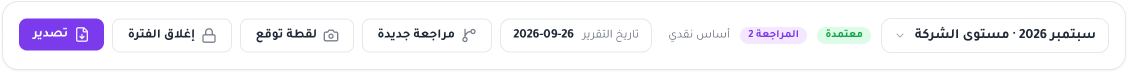
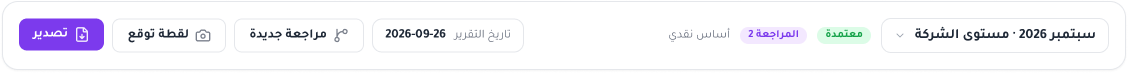
test(finance): approver identity comes from the session; review package docs
- tests/finance/http/approver-identity.test.mjs: a user holding both preparing and
  approving duties cannot approve their own request by claiming another approver in the
  body, query string or identity-style headers (403), forged cookies are 401, and the
  recorded decider is always the session's employee. Fixture user fin.dual.
- VERIFICATION.md: the identity boundary in three tiers (ordinary users; the backend and its
  database credential; privileged database administrators).
- ENVIRONMENT.md: production identification restated as indirect evidence; the health-check
  observation is corroborating only; the deployed connection string was not read.
- DECISIONS.md: effect, recommendation and what each decision changes; D4b closed by
  correcting the frame to the permission policy; D7 closed by the ERP convention.
- MIGRATION_REHEARSAL.md: proposed isolated rehearsal procedure (not executed).

Changed region(s): [[0.0931, 0.3562, 0.5895, 0.6027]]

diff --git a/scripts/finance/seed-local-fixture.ts b/scripts/finance/seed-local-fixture.ts
@@ -75,6 +75,9 @@ async function main() {
   await user("fin.viewer", "مراجع — عرض فقط", perms([]));
   await user("fin.manager.en", "Sara Alotaibi — Finance", perms(["txn_enter", "reconcile", "budget_prepare", "allocate", "all_branches", "settings_manage"]), "en");
   await user("no.finance", "موظف بلا صلاحية مالية", { ...buildDefaultPermissions("custom"), dashboard: { access: "edit" } });
+  // Holds BOTH preparing and approving duties (a small team): only the four-eyes rule stops
+  // them approving their own request (tests/finance/http/approver-identity.test.mjs).
+  await user("fin.dual", "مدير مالي — إعداد واعتماد", perms(["budget_prepare", "budget_approve", "all_branches"]));
   // First-grant scenario (tests/finance/http/admin-grant.test.mjs): an administrator whose
   // stored permissions were written before the Finance module existed, and two staff members
   // who have no finance access yet.
@@ -265,7 +268,7 @@ async function main() {
   await submitBudget(prep, ps, oct.id, {});
   await requestCategoryTransfer(prep, ps, { fromCategoryId: al["AL-RESERVE"].id, toCategoryId: al["AL-GREEN"].id, amount: "5000", reason: "تعزيز البن الأخضر لشحنة كولومبيا" });
 
-  console.log("Local finance fixture created. Logins: fin.manager, fin.approver, fin.cafe, fin.viewer, fin.manager.en, no.finance, legacy.admin, new.preparer, new.approver (password from FIN_FIXTURE_PASSWORD).");
+  console.log("Local finance fixture created. Logins: fin.manager, fin.approver, fin.cafe, fin.viewer, fin.manager.en, no.finance, legacy.admin, new.preparer, new.approver, fin.dual (password from FIN_FIXTURE_PASSWORD).");
 }
 
 main().then(async () => { await prisma.$disconnect(); process.exit(0); }).catch(async (e) => { console.error(e); await prisma.$disconnect(); process.exit(1); });

diff --git a/docs/finance/DECISIONS.md b/docs/finance/DECISIONS.md
@@ -1,27 +1,28 @@
-# Finance — visual decisions needed (2026-09-26)
+# Finance — visual decisions (review package, 2026-09-26)
 
 Straightforward discrepancies were fixed in the application to match the agreed Figma frames
-(FIGMA_PARITY.md §5). What remains below are differences that involve a usability or business
-choice. **Each stays unresolved until you accept a resolution**; the screens they touch are
-marked "Differs — decision needed" in FIGMA_PARITY.md.
+(FIGMA_PARITY.md §5). This sheet covers what remains. Nothing here is marked approved, and no
+frame has been redrawn on the assumption that a recommendation will be accepted.
 
 Crops: Figma = the named node exported from page "15 — Finance · Cash & Budget"; app = the same
 card from the running build on the local fixture (`tests/finance/visual/decision-crops.mjs`).
+"Changes" says what accepting the recommendation would change: **appearance** (how it looks),
+**workflow** (what a user can do or must do), **permissions** (who may do it).
 
-| ID | Screen | Figma | App | Difference | Impact on users | Recommendation |
-|---|---|---|---|---|---|---|
-| **D2** | FIN-02 Transactions — review panel | ![Figma review panel](decisions/D2-review-panel-figma.png) | ![App review panel](decisions/D2-review-panel-app.png) | The app panel adds four sections the frame does not draw: order match suggestions (three recent orders), "allocation from this receipt", a review-note field, and the line history. The panel is 886 px tall vs 624 px in the frame, which pushes the reconciliation card down. | Suggestions and allocation status are how a reviewer links a receipt and sees what it funded without leaving the panel; the note and history are the audit trail the brief requires. Removing them means more clicks and no in-place audit. | **Keep the app; add the four sections to FIN-02** (collapsed by default if height matters). |
-| **D3a** | FIN-03 Allocation — categories | ![Figma categories](decisions/D3-categories-figma.png) | ![App categories](decisions/D3-categories-app.png) | "+ فئة جديدة" (new category) button in the table header; the frame has no way to create an allocation category anywhere on the page. | Without it, allocation categories can be created only through "Add suggested" in Settings. | **Keep the button; add it to FIN-03.** |
-| **D3b** | FIN-03 Allocation — categories | (same crops) | (same crops) | App-only footnote under the table: "a category's name does not mean distributable profit…". | Reinforces acceptance 19 (no profit implied by cash figures). | **Keep; add to FIN-03.** Low stakes — acceptable to drop if you prefer the cleaner frame. |
-| **D4a** | FIN-04 Budget — comparison table | ![Figma comparison](decisions/D4-comparison-figma.png) | ![App comparison](decisions/D4-comparison-app.png) | Under some line names the app shows the line owner ("المالية — سارة العتيبي"), and under zero actuals "قد تكون البيانات ناقصة" (data may be incomplete). Rows are taller; the table card is 69 px longer (955 vs 886 px). | The owner is who explains a variance (brief: every line has an owner); the note stops a zero being read as "verified zero" while lines await review. | **Keep both; add to FIN-04.** Alternative: show the owner on hover only. |
-| **D4b** | FIN-04 Budget — toolbar | ![Figma toolbar](decisions/D4-toolbar-figma.png) | ![App toolbar](decisions/D4-toolbar-app.png) | The frame shows "إغلاق الفترة" (close period) to the preparer; the app shows it only to holders of `period_close`, which the preparer does not have. | Showing it to the preparer would offer an action the server refuses (403) — FIN-08's own rule is "an action not permitted is hidden". | **Correct the frame** (design error): hide it for this persona, or draw FIN-04 for an approver. |
-| **D5** | FIN-05 Obligations — open obligations | ![Figma obligations](decisions/D5-obligations-figma.png) | ![App obligations](decisions/D5-obligations-app.png) | App adds: a cancel (×) icon per obligation, the counterparty under the name, a "عرض الكل" (show all) link, and an Export button on the forecast card. | Cancel/supersede and export are required functions (brief §6, §9); the counterparty disambiguates two rents or two supplier bills. | **Keep; add to FIN-05.** |
-| **D6** | FIN-06 Settings — accounts, branches, budget categories | ![Figma accounts](decisions/D6-accounts-figma.png) ![Figma branches](decisions/D6-branches-figma.png) ![Figma categories](decisions/D6-budget-categories-figma.png) | ![App accounts](decisions/D6-accounts-app.png) ![App branches](decisions/D6-branches-app.png) ![App categories](decisions/D6-budget-categories-app.png) | Account form has five more fields (bank, last 4 digits, opening balance, its date, "restricted cash"); branches card has the employee-to-branch access controls; budget categories has "إضافة المقترحة" and an inline new-category form. The page is ~500 px longer. | These are the inputs the brief requires (opening balances, restricted cash, branch access). Without them Finance cannot be set up from the UI. | **Keep; redraw FIN-06** with these forms (can be split into sub-tabs if the page is too long). |
-| **D7** | All dialogs and filters (e.g. FIN-07c) | ![Figma payment request](decisions/D7-native-controls-figma.png) | ![App payment request](decisions/D7-native-controls-app.png) | `<select>`, date and file inputs are the browser's native controls: native chevron on the left, date shown in the browser's locale (`mm/dd/yyyy` / `09/26/2026`), "Choose File" label. The frame draws custom controls. | Native controls are accessible and keyboard-friendly by default; the date format can confuse Arabic users, and the look differs from the design. Affects the whole ERP, not only Finance. | **Decide ERP-wide.** Short term: accept native controls; medium term: one shared custom Select/DatePicker for all modules (not Finance-only). |
+| ID | Screen | Figma | App | Exact difference | Effect on the user | Recommended option | Changes | Status |
+|---|---|---|---|---|---|---|---|---|
+| **D2** | FIN-02 Transactions — review panel | ![Figma review panel](decisions/D2-review-panel-figma.png) | ![App review panel](decisions/D2-review-panel-app.png) | The app panel adds four sections the frame does not draw: order match suggestions, "allocation from this receipt", a review-note field, and the line history. The panel is 886 px tall vs 624 px, pushing the reconciliation card down. | Suggestions and allocation status let a reviewer link a receipt and see what it funded without leaving the panel; note and history are the audit trail. Without them: more clicks, no in-place audit. | Keep the app; add the four sections to FIN-02 (collapsed by default if height matters). | appearance (design) | **Open** |
+| **D3a** | FIN-03 Allocation — categories | ![Figma categories](decisions/D3-categories-figma.png) | ![App categories](decisions/D3-categories-app.png) | "+ فئة جديدة" (new category) button in the table header; the frame has no way to create an allocation category on this page. | Without it, allocation categories can only be created via "Add suggested" in Settings. | Keep the button; add it to FIN-03. | workflow | **Open** |
+| **D3b** | FIN-03 Allocation — categories | (same crops) | (same crops) | App-only footnote: "a category's name does not mean distributable profit…". | Reinforces that cash earmarks are not profit (acceptance 19). | Keep; add to FIN-03 (low stakes — dropping it is acceptable). | appearance | **Open** |
+| **D4a** | FIN-04 Budget — comparison table | ![Figma comparison](decisions/D4-comparison-figma.png) | ![App comparison](decisions/D4-comparison-app.png) | Under some line names the app shows the line owner and, under zero actuals, "قد تكون البيانات ناقصة" (data may be incomplete). The table card is 69 px longer (955 vs 886). | The owner is who explains a variance; the note prevents a zero being read as a verified zero while lines await review. | Keep both; add to FIN-04 (alternative: owner on hover only). | appearance | **Open** |
+| **D4b** | FIN-04 Budget — toolbar | ![Figma toolbar, corrected](decisions/D4-toolbar-figma.png) (before: ![Figma toolbar, before](decisions/D4-toolbar-figma-before.png)) | ![App toolbar](decisions/D4-toolbar-app.png) | The frame showed "إغلاق الفترة" (close period) to the preparer, who does not hold `period_close`. | Would offer an action the server refuses (403). | **Design corrected** to the existing permission policy: the button is removed from the preparer's FIN-04 (it remains for holders of `period_close`, as the app does). The preparer was not given the permission. | permissions stay as they are; Figma only | **Closed** (design corrected) |
+| **D5** | FIN-05 Obligations — open obligations | ![Figma obligations](decisions/D5-obligations-figma.png) | ![App obligations](decisions/D5-obligations-app.png) | App adds: cancel (×) per obligation, the counterparty under the name, "عرض الكل" (show all), and an Export button on the forecast card. | Cancelling/superseding and exporting are required functions; the counterparty tells apart two rents or two bills. | Keep; add to FIN-05. | workflow | **Open** |
+| **D6** | FIN-06 Settings — accounts, branches, budget categories | ![Figma accounts](decisions/D6-accounts-figma.png) ![Figma branches](decisions/D6-branches-figma.png) ![Figma categories](decisions/D6-budget-categories-figma.png) | ![App accounts](decisions/D6-accounts-app.png) ![App branches](decisions/D6-branches-app.png) ![App categories](decisions/D6-budget-categories-app.png) | Account form has five more fields (bank, last 4 digits, opening balance, its date, restricted cash); branches card has the employee-to-branch access controls; budget categories has "إضافة المقترحة" and an inline form. The page is ~500 px longer. | These are the inputs Finance set-up requires; without them it cannot be configured from the UI. | Keep; redraw FIN-06 with these forms (sub-tabs if too long). | workflow and permissions (branch access is granted here) | **Open** |
+| **D7** | All forms (e.g. FIN-07c) | ![Figma payment request](decisions/D7-native-controls-figma.png) | ![App payment request](decisions/D7-native-controls-app.png) | Selects, date and file inputs are the browser's native controls; the frames draw stylised ones. | Native controls are keyboard- and screen-reader-accessible by default. The date input shows the browser's locale format — as it does in every other ERP module. | **Follow the existing ERP convention: native controls.** Evidence: 27 native `<select>` uses in 11 non-Finance files, native date and file inputs, no custom select/date component or library on `main`, the sales branch or the design-system branch. No Finance-specific usability or accessibility defect was found. No ERP-wide redesign proposed. | none | **Closed** (follows convention; app unchanged; frames not redrawn) |
 
 ## Not decisions (recorded for completeness)
 
 - **Shell** (header height 49 vs 46 px; header date in Arabic-Indic digits): existing code shared
   by every module, unchanged by Finance; the sales branch's shell renders Latin digits.
-- **Data state** differences that the captures cannot reproduce exactly (queue order in FIN-07a,
-  statement size in FIN-07b, chart axis maxima chosen automatically): not material.
+- **Data-state** differences the captures cannot reproduce exactly (queue order in FIN-07a,
+  statement size in FIN-07b, chart axis maxima): not material.

diff --git a/docs/finance/VERIFICATION.md b/docs/finance/VERIFICATION.md
@@ -19,7 +19,7 @@ fixture password from the gitignored `.env`, e.g.
 | 4 | `npm run test:finance:unit` | **36/36** (pure finance 19, DB guard 4, sales-collection rule 8, exactly-once rules 5) |
 | 5 | `npm run test:finance:db` (`erp_finance_test`) | **28 pass, 0 fail, 5 skipped** — the 5 are the sales-collection specifications (§7) |
 | 6 | `npx next start -p 3040`; `npm run finance:fixture -- --reset` | fixture server |
-| 7 | `BASE_URL=http://localhost:3040 FIN_PASSWORD=… npm run test:finance:http` | **6/6** |
+| 7 | `BASE_URL=http://localhost:3040 FIN_PASSWORD=… npm run test:finance:http` | **7/7** (incl. approver identity from the session) |
 | 8 | `BASE_URL=http://localhost:3040 FIN_PASSWORD=… npm run test:finance:ui` | **10/10** workflow steps |
 | 9 | `capture.mjs` / `states.mjs` / `decision-crops.mjs` | 13 screens, 13 states/breakpoints, 16 decision crops |
 | 10 | `npx prisma migrate diff --from-config-datasource --to-schema prisma/schema.prisma --script` (`.env.test`) | empty |
@@ -94,6 +94,14 @@ The same path runs in the real UI (`workflow-ui.mjs` steps 7–10) with screensh
 HTTP): which duty may prepare, approve, allocate, reconcile, close, manage settings; branch scope
 (404 outside); routing to the named approver; spending limits and available balances;
 validation; statement matching; idempotency keys; the pool advisory lock.
+
+**Who decides — the identity boundary in three tiers.**
+
+| Tier | Who | What stops self-approval | Evidence |
+|---|---|---|---|
+| 1. Ordinary application users | anyone using the web app or its API with their own login | The decider is the employee in the **signed `token` cookie**, verified on the server; permissions and active state are re-read from the database on every request. No request body field, query parameter or header is used as an identity. The service refuses a decision by the requester; so does the database. | `tests/finance/http/approver-identity.test.mjs`: a user holding both preparing and approving duties submits a budget, then tries to approve it while claiming another approver's id in body fields (`decidedBy`, `actorId`, `userId`, `approverId`, `employeeId`, …), query parameters and identity-style headers (`x-user-id`, `x-forwarded-user`, …) → **403** each time; tampered, malformed and unsigned cookies → **401**; the request stays PENDING with no decider. The real approver then approves while the body names the requester — the recorded `decidedBy` is the approver (from the session). |
+| 2. The backend and its database credential | the deployed application code and anyone holding the `finance_app` (application) credential | The database refuses a decision whose recorded decider equals the recorded requester, forged pre-approved requests, and approval-gated states without an approved request. It **does not authenticate the human**: it trusts the ids the backend writes. Code or a person with this credential could write another employee's id as the decider. Mitigations: the credential is a server secret; the finance audit log is append-only for this role, so such a write leaves a permanent record naming the impersonated person. | `lifecycle.test.ts` "no self-approval bypass" (as `finance_app`) |
+| 3. Privileged database administrators | the table owner / superuser (`finance_local` here; `neondb_owner` by default on Neon) | Nothing in these controls: they can disable or replace triggers and rewrite or truncate any table. Only organisational controls apply (separate non-owner runtime role, owner credential restricted to named administrators, provider audit trail, point-in-time restore). | not testable here; see ENVIRONMENT.md §6 |
 
 **Trust boundary — what the database does not and cannot protect against:**
 
@@ -209,8 +217,8 @@ Local only: `npm run db:local`, `npm run build`, `npx next start -p 3040`,
 | 1 | The application role could enable self-approval (`FinSettings.allowSelfApproval`) | Exception removed: column and helper dropped; guards consult no setting or session variable; requests born pending; approval-gated states (held payment, rule activation, revision approval, category transfer, period reopen) require an APPROVED request decided by someone else; named approver ≠ requester (`20260926140000_finance_strict_four_eyes`, `d954c78`) | `lifecycle.test.ts` "no self-approval bypass" as `finance_app`: every bypass refused; 9-table snapshot unchanged; legitimate approval still works | **Closed** at the database boundary for the application role. Residual trust (§3): the recorded actor id, privileged DB administrators, migrations |
 | 2 | D1 — commitments before settlement, exactly once | Implemented (`exactly-once.ts`, `ledger.ts`, import `SETTLES`, request↔line tracing, awaiting-review class) | `exactly-once.test.ts` (5 scenarios incl. races) with per-step balances in `evidence/d1-balances.md`; unit tests; mutation check | **Closed** |
 | 3a | Straightforward visual discrepancies | App aligned to Figma: typography (line height), FIN-03 branch tables and title, FIN-04 toolbar and variance card, FIN-08 empty state and duplicate-reference warning, dialog labels | FIGMA_PARITY.md §1, §3 (FIN-01 geometry within 1–4 px), parity side-by-sides | **Closed** |
-| 3b | Genuine design/usability choices | D2, D3a, D3b, D4a, D4b, D5, D6, D7 — one sheet with crops, impact and a recommendation each | DECISIONS.md | **Open — needs your decision**; FIN-02/03/04/05/06 stay "Differs" |
-| 4 | Which database serves www.beanflow.net | Read-only evidence: Vercel `flow-com` production deployment `dpl_6Aa8nwC1xyyB3nmtrYCffCSKM4Cq` (main `4640cbe`) → Neon `dark-lab-61530722` / branch `br-weathered-bread-aqais7hp` / endpoint **`ep-dawn-dust-aqn1u1uf`** (woken by one `/api/health` GET) | ENVIRONMENT.md §1 | **Resolved**. Owner action: `CLAUDE.md` (not modified) labels it "demo" and names a non-existent production endpoint; the main checkout's `.env` points at production. Guards unchanged |
+| 3b | Genuine design/usability choices | One sheet with crops, effect, recommendation and what each changes. D4b: Figma corrected to the permission policy (preparer not given `period_close`). D7: native controls, the ERP convention. | DECISIONS.md | D4b, D7 **closed**; D2, D3a, D3b, D4a, D5, D6 **open — needs your decision**; FIN-02/03/04/05/06 stay "Differs" |
+| 4 | Which database serves www.beanflow.net | Read-only evidence: Vercel `flow-com` production deployment `dpl_6Aa8nwC1xyyB3nmtrYCffCSKM4Cq` (main `4640cbe`) → Neon `dark-lab-61530722` / branch `br-weathered-bread-aqais7hp` / endpoint **`ep-dawn-dust-aqn1u1uf`** — from independent Neon/Vercel metadata, corroborated by one `/api/health` GET; the deployed connection string itself is a sensitive variable and was not read | ENVIRONMENT.md §1 | **Identified (indirect evidence); protected as production**. Direct confirmation needs the owner. Owner action: `CLAUDE.md` (not modified) labels it "demo" and names a non-existent production endpoint; the main checkout's `.env` points at production. Guards unchanged |
 | 5a | Approved sales/navigation integration commit | None exists (no PR, no remote integration branch; `ui-ux-alignment` unpushed and moving) | SALES_INTEGRATION.md §4 | **Blocked — dependency on an approval** |
 | 5b | Five sales-collection tests | Implemented and passing on the disposable local branch `trial/finance-sales-integration-20260926` (merge `71b3043` of sales `aa9ef8c` + finance `4bb76bb`; head `04419a7`); specs complete and skipped on this branch; patches in `docs/finance/integration/` | trial: finance DB 33/33, 0 skipped; SALES_INTEGRATION.md §5 | **Verified on the trial branch only** |
 | 5c | `aeb384a` | Ordinary commit on `feature/finance-cash-budget`, parent `597dd9c`; documents a trial merge; not a merge commit; no trial branch existed then | `git log`, SALES_INTEGRATION.md §6 | **Answered** |
@@ -234,7 +242,7 @@ Local only: `npm run db:local`, `npm run build`, `npx next start -p 3040`,
    the five skips, and run the suites (incl. `test:shell` in its own environment).
 3. **Production database roles** — confirm the application connects to `ep-dawn-dust` as a
    non-owner role and that the owner credential is restricted (§3); cannot be verified from here.
-4. **Migration rehearsal** on a Neon branch copy of `ep-dawn-dust`'s branch, with a backup, by
+4. **Migration rehearsal** (procedure: MIGRATION_REHEARSAL.md) on a Neon branch copy of `ep-dawn-dust`'s branch, with a backup, by
    someone authorised to touch it.
 5. Known functional gaps unchanged: CSV import only (no bank connector); receipts matched to
    orders without invoice values; no payroll module; accrual view off; English server error

diff --git a/docs/finance/FIGMA_PARITY.md b/docs/finance/FIGMA_PARITY.md
@@ -27,13 +27,13 @@ not marked Match while a material difference is open.
 | Overview | [FIN-01](https://www.figma.com/design/CYWypOA4538FYoTDUdGyP5/?node-id=326-2) | `/dashboard/finance` (`fin.manager`) | 1440 | 1403 / 1404 | Match, documented differences | Blocks within 1–4 px of the frame after the typography fix; shell header (existing code) 3 px taller and uses Arabic-Indic digits |
 | Transactions & reconciliation | [FIN-02](https://www.figma.com/design/CYWypOA4538FYoTDUdGyP5/?node-id=329-2) | `/dashboard/finance/transactions` | 1440 | 1231 / 1498 | **Differs — D2** | Review panel sections not drawn (suggestions, allocation from receipt, note, history) |
 | Cash allocation | [FIN-03](https://www.figma.com/design/CYWypOA4538FYoTDUdGyP5/?node-id=331-2) | `/dashboard/finance/allocation` | 1440 | 1786 / 1824 | **Differs — D3a/D3b** | "+ new category" button; profit footnote |
-| Monthly budget & variance | [FIN-04](https://www.figma.com/design/CYWypOA4538FYoTDUdGyP5/?node-id=332-2) | `/dashboard/finance/budget` | 1440 | 2082 / 2234 | **Differs — D4a/D4b** | Owner and "may be incomplete" under lines; "Close period" shown to the preparer in the frame only |
+| Monthly budget & variance | [FIN-04](https://www.figma.com/design/CYWypOA4538FYoTDUdGyP5/?node-id=332-2) | `/dashboard/finance/budget` | 1440 | 2082 / 2234 | **Differs — D4a** | Owner and "may be incomplete" under lines (D4b closed: frame corrected to the permission policy) |
 | Obligations & forecasts | [FIN-05](https://www.figma.com/design/CYWypOA4538FYoTDUdGyP5/?node-id=334-2) | `/dashboard/finance/obligations` | 1440 | 1384 / 1616 | **Differs — D5** | Cancel per obligation, counterparty, show-all, Export |
 | Reports & settings | [FIN-06](https://www.figma.com/design/CYWypOA4538FYoTDUdGyP5/?node-id=335-2) | `/dashboard/finance/reports` | 1440 | 1865 / 2369 | **Differs — D6** | Account, branch-access and category forms not drawn |
 | Approvals dialog | [FIN-07a](https://www.figma.com/design/CYWypOA4538FYoTDUdGyP5/?node-id=336-2) | header → Approvals (`fin.approver`) | 1440 | 434 / 486 | Match, documented differences | Queue order follows the data |
-| CSV import preview | [FIN-07b](https://www.figma.com/design/CYWypOA4538FYoTDUdGyP5/?node-id=336-36) | Transactions → Import CSV | 1440 | 541 / 544 | Differs — D7 only | Native select/file controls; counts reflect a 5-row sample |
-| Payment request | [FIN-07c](https://www.figma.com/design/CYWypOA4538FYoTDUdGyP5/?node-id=336-111) | Allocation → Payment request | 1440 | 574 / 576 | Differs — D7 only | Native select/date controls |
-| Record payment made | [FIN-07d](https://www.figma.com/design/CYWypOA4538FYoTDUdGyP5/?node-id=361-6616) | Allocation → open request | 1440 | 236 / 241 | Differs — D7 only | Native select |
+| CSV import preview | [FIN-07b](https://www.figma.com/design/CYWypOA4538FYoTDUdGyP5/?node-id=336-36) | Transactions → Import CSV | 1440 | 541 / 544 | Match, documented differences | Native select/file controls per ERP convention (D7); counts reflect a 5-row sample |
+| Payment request | [FIN-07c](https://www.figma.com/design/CYWypOA4538FYoTDUdGyP5/?node-id=336-111) | Allocation → Payment request | 1440 | 574 / 576 | Match, documented differences | Native select/date controls per ERP convention (D7) |
+| Record payment made | [FIN-07d](https://www.figma.com/design/CYWypOA4538FYoTDUdGyP5/?node-id=361-6616) | Allocation → open request | 1440 | 236 / 241 | Match, documented differences | Native select per ERP convention (D7) |
 | States | [FIN-08](https://www.figma.com/design/CYWypOA4538FYoTDUdGyP5/?node-id=337-2) | §2 | 1440 | — | Match, documented differences | All five panels match (both set-up actions for a user who can set up; inline duplicate-reference warning); a view-only user sees no set-up actions, per FIN-08's own rule |
 | Overview — tablet | [FIN-09](https://www.figma.com/design/CYWypOA4538FYoTDUdGyP5/?node-id=337-5712) | `/dashboard/finance` | 1024 | 2282 / 2255 | Match, documented differences | As FIN-01 |
 | Overview — English | [FIN-10](https://www.figma.com/design/CYWypOA4538FYoTDUdGyP5/?node-id=338-2) | `/dashboard/finance` (`fin.manager.en`) | 1440 | 1403 / 1404 | Match, documented differences | As FIN-01 |
@@ -71,13 +71,14 @@ classic scrollbar cannot move the breakpoint.
   Arabic-Indic digits on `origin/main`; the sales branch's shell fixes it.
 - **Signed numbers:** LTR isolates in the app; Figma ignores isolates (a few negatives render
   with a trailing minus in the frames) — Figma limitation.
-- **Native controls:** decision D7.
+- **Native controls:** the ERP convention (D7 — closed): native `<select>`, date and file inputs everywhere; the frames draw stylised controls and are not redrawn.
 - **Server error text** is English inside the localised error card (detail line only).
 
 ## 4. Decisions
 
-See **[DECISIONS.md](DECISIONS.md)** — D2, D3a, D3b, D4a, D4b, D5, D6, D7, each with Figma and app
-crops, the exact difference, the user impact and a recommendation. All unresolved.
+See **[DECISIONS.md](DECISIONS.md)** — each with Figma and app crops, the exact difference, the effect
+on the user, a recommendation and what it changes. Open: D2, D3a, D3b, D4a, D5, D6. Closed: D4b
+(design corrected to the permission policy), D7 (ERP convention).
 
 ## 5. Changes made after implementation
 
@@ -100,6 +101,7 @@ Figma (every change, with its classification):
 | 2026-09-26 | FIN-02 | class labels "تحويل بين حسابات الشركة", "تسوية نقاط البيع (صافي الرسوم)" | Design used outdated labels |
 | 2026-09-26 | FIN-07b | "confirms a recorded line" box and footnote | New behaviour after the design |
 | 2026-09-26 | FIN-01/03/09/10 | figures briefly set to the first D1 rule (−450.00), then **restored to the original values** when the final D1 rule was adopted | Business-rule change (D1); no net change to those figures |
+| 2026-09-26 | FIN-04 | "إغلاق الفترة" removed from the preparer toolbar (D4b) | Design error: the frame contradicted the permission policy |
 | 2026-09-26 | FIN-03 | pending sentence split: "pending out deducted: 0.00" and "pending out awaiting review (not deducted yet): 450.00" | Business-rule change (D1) |
 
 Application (aligned to the design — no Figma change):

diff --git a/docs/finance/ENVIRONMENT.md b/docs/finance/ENVIRONMENT.md
@@ -3,13 +3,28 @@
 Nothing in this branch's work connected to, migrated, seeded or tested against any Neon
 endpoint. Every database write went to a portable PostgreSQL on `127.0.0.1:54329`.
 
-## 1. Which database serves www.beanflow.net — resolved by evidence (2026-09-26)
+## 1. Which database serves www.beanflow.net — identified from indirect evidence (2026-09-26)
 
-**Answer: `ep-dawn-dust-aqn1u1uf` is the live production database**, even though its Neon
+**Conclusion: treat `ep-dawn-dust-aqn1u1uf` as the live production database** (it already was
+treated that way; every finance guard refuses it and every other shared endpoint). Its Neon
 branch is named `hiqbah-demo-training-20260529` and two repository sources call it "demo".
-Every finance guard keeps refusing it (and every other shared endpoint).
 
-Method — read-only, no database connection, no connection string read:
+**Limitation — the deployed connection configuration was not inspected directly.** The
+production `DATABASE_URL` in Vercel is a *sensitive* variable: the API never returns its value,
+so the host and database it names could not be read. The conclusion rests on the independent,
+indirect evidence below; the owner can confirm it directly in the Vercel dashboard (or by
+reading the variable's host with the project owner's access). No further production traffic
+will be generated and no production data was accessed.
+
+| Kind | Evidence | Weight |
+|---|---|---|
+| Independent | The production deployment (`flow-com`, `dpl_6Aa8nwC1xyyB3nmtrYCffCSKM4Cq`) has a single production `DATABASE_URL` (sensitive, last edited 2026-09-09 06:07 UTC) and no production `DIRECT_URL` | shows there is exactly one production database setting; does not show which host |
+| Independent | Neon activity metadata: `ep-jolly-feather-aqne6cp1` (branch literally named `production`) suspended since 2026-09-17 11:56 UTC with 86 KB transferred in its lifetime, while the site kept serving; `ep-dawn-dust-aqn1u1uf` active until 2026-09-25 23:42 UTC with ~400 MB transferred | the branch named "production" is not what the live site uses |
+| Independent | Every `pre-go-live` / `pre-cutover` / `pre-migration` backup branch since 2026-09-17 was cut from `ep-dawn-dust`'s branch (`br-weathered-bread-aqais7hp`) | the go-live migrations were applied to that branch |
+| Independent | `docs/sales/DATABASE_ISOLATION.md` on the sales branch states it serves www.beanflow.net | a written claim by another workstream |
+| **Corroborating (not direct)** | One `GET /api/health` (the public uptime check: bounded `SELECT 1`, no writes) at 10:45:00 UTC was followed by `ep-dawn-dust`'s compute starting at 10:45:03 UTC while `ep-jolly-feather` stayed suspended | a timing correlation, not an inspection of the configuration; another client could in principle have woken that compute in the same seconds. Not repeated |
+
+Details of each observation:
 
 | # | Evidence | Source | Result |
 |---|---|---|---|
@@ -18,7 +33,7 @@ Method — read-only, no database connection, no connection string read:
 | 3 | Current production deployment | `list_deployments target=production state=READY` | **`dpl_6Aa8nwC1xyyB3nmtrYCffCSKM4Cq`**, created 2026-09-19 05:56 UTC from `main` @ **`4640cbe`** (the base of this branch), repo `ibrahim1440/flow.com` |
 | 4 | Database variables of that environment (names and metadata only, never decrypted) | `filter_project_envs decrypt=false` | Production: `DATABASE_URL` (id `utHcUVSmtDnNhptT`, type **sensitive** — Vercel never returns the value, so the host cannot be read from Vercel; last edited 2026-09-09 06:07 UTC), `JWT_SECRET`, `PIN_LOOKUP_SECRET`; **no production `DIRECT_URL`**. Preview-only, branch-scoped copies exist for `feature/sales-crm-commissions`, `release/rc-order-operations-20260906`, `-20260908` and `release/pre-go-live-20260904` |
 | 5 | Neon project, branches and computes | Neon control-plane API (metadata only; `describe_branch`, which queries the database, was not used) | Project **`hiqbah`** (`dark-lab-61530722`, `aws-us-east-1`). Branch **`production`** (`br-fragrant-poetry-aqd0ndyx`, endpoint `ep-jolly-feather-aqne6cp1` "production-primary"): suspended since **2026-09-17 11:56 UTC**, 86 KB transferred in its lifetime. Branch `hiqbah-demo-training-20260529` (`br-weathered-bread-aqais7hp`, endpoint `ep-dawn-dust-aqn1u1uf`): last active 2026-09-25 23:42 UTC, ~400 MB transferred; every `pre-go-live` / `pre-cutover` / `pre-migration` backup branch since 2026-09-17 was cut **from this branch** |
-| 6 | Which compute the live site wakes | one `GET https://www.beanflow.net/api/health` at 10:45:00 UTC (the public, unauthenticated uptime endpoint on `main`: bounded `SELECT 1`, no writes, returns only up/down) → HTTP 200 in 2.74 s (cold start; the route documents ~167 ms warm) | **`ep-dawn-dust-aqn1u1uf` compute started at 10:45:03 UTC**; `ep-jolly-feather-aqne6cp1` stayed suspended |
+| 6 | Which compute the live site wakes | one `GET https://www.beanflow.net/api/health` at 10:45:00 UTC (the public, unauthenticated uptime endpoint on `main`: bounded `SELECT 1`, no writes, returns only up/down) → HTTP 200 in 2.74 s (cold start; the route documents ~167 ms warm) | `ep-dawn-dust-aqn1u1uf` compute started at 10:45:03 UTC; `ep-jolly-feather-aqne6cp1` stayed suspended — **corroborating only** (see above) |
 
 Non-secret identifiers of the live database: Neon project `dark-lab-61530722` (`hiqbah`),
 branch `br-weathered-bread-aqais7hp`, endpoint `ep-dawn-dust-aqn1u1uf`, hosts

diff --git a/docs/finance/MIGRATION_REHEARSAL.md b/docs/finance/MIGRATION_REHEARSAL.md
@@ -1,0 +1,81 @@
+# Finance migrations — rehearsal procedure on an isolated database (proposal, not executed)
+
+**Nothing in this document has been run against production or against any copy of it.** It
+is the procedure an authorised person follows to rehearse the Finance migrations on an
+isolated database before any production change is even scheduled.
+
+## What is being rehearsed
+
+| Migration | Effect | Touches existing tables? |
+|---|---|---|
+| `20260926005011_add_finance_cash_budget` | 27 new tables, CHECKs, partial unique indexes, append-only triggers | **No** — every `ALTER TABLE` targets a table created in the same set |
+| `20260926092523_finance_statement_matching_and_db_controls` | 3 columns on finance tables, four-eyes triggers | No |
+| `20260926140000_finance_strict_four_eyes` | stricter approval guards; drops the self-approval column and helper | No (finance tables only) |
+
+When integrated with Sales, the three Sales migrations (`20260924090000_*`, `20260925130833_*`,
+`20260925131140_*`) sort first and are rehearsed in the same run; they *do* add relations to
+existing tables (Employee, Customer, Order, ProductSKU) — their owners sign off on that part.
+
+## Roles
+
+- **Owner of the production database** (only they): creates and later deletes the isolated copy,
+  holds its owner credential.
+- **Operator**: runs the commands below from a machine whose environment contains **only** the
+  copy's credentials (never the main checkout's `.env`, which points at production).
+- **Reviewer**: checks the recorded outputs and signs off.
+
+## Procedure
+
+1. **Record the starting point.** Production deployment id and commit (today:
+   `dpl_6Aa8nwC1xyyB3nmtrYCffCSKM4Cq`, `main` `4640cbe`), the integration candidate commit to be
+   rehearsed, and the time.
+2. **Create the isolated copy (owner).** In the Neon console, create a branch from the
+   production branch (`br-weathered-bread-aqais7hp`) at the recorded time, name it
+   `rehearsal-finance-YYYYMMDD`, with its own compute endpoint. It contains production data:
+   treat it as sensitive, do not attach it to any Vercel environment, delete it afterwards.
+   *Alternative with no production data:* a fresh local database migrated from scratch (as in
+   ENVIRONMENT.md §4) — proves the SQL, not the upgrade path on real rows.
+3. **Point only at the copy.** Put the copy's owner URL in the shell environment (not a file in
+   the repository). Before anything else, confirm the host is the new endpoint and **not**
+   `ep-dawn-dust-aqn1u1uf`, `ep-jolly-feather-aqne6cp1` or any other shared endpoint:
+   `node scripts/finance/check-env.mjs` (masked output) and read the host line.
+4. **Pre-checks (read-only).**
+   - `npx prisma migrate status` → exactly the expected pending migrations, nothing unexpected
+     applied.
+   - Row counts of existing core tables (Employee, Order, OrderItem, InventoryMovement,
+     Customer, ProductSKU) and the `_prisma_migrations` list — saved.
+5. **Apply.** `node scripts/migrate-deploy.mjs` (the repository's `prisma migrate deploy`
+   wrapper; the build never migrates). Record duration and output.
+6. **Post-checks.**
+   - `npx prisma migrate status` → up to date; `npx prisma migrate diff --from-config-datasource
+     --to-schema prisma/schema.prisma --script` → empty.
+   - The row counts from step 4 are unchanged.
+   - Trigger inventory present (`pg_trigger`): `AllocationEntry_append_only`,
+     `AllocationEntry_transfer_approval`, `AllocationRun_append_only`, `FinAuditLog_append_only`,
+     `BankTransaction_no_delete`, `BudgetLine_protect_approved`,
+     `BudgetRevision_protect_approved`, `BudgetRevision_four_eyes`,
+     `AllocationRuleVersion_four_eyes`, `FinApprovalRequest_guard`,
+     `PaymentReservation_override_approval`, `FinBudget_reopen_approval`.
+   - `FinSettings` has no `allowSelfApproval` column.
+7. **Runtime role.** On the copy, create a non-owner application role with DML only (as
+   `scripts/finance/local-postgres.mjs grant-app` does locally), then confirm from a session as
+   that role: TRUNCATE refused, `ALTER TABLE … DISABLE TRIGGER` refused, a self-decision on an
+   approval request refused (the SQL in `tests/finance/integration/lifecycle.test.ts` "no
+   self-approval bypass" can be run by hand on a test request).
+8. **Application smoke test.** Build the candidate and run it locally against the copy **with
+   the runtime role** (not the owner): log in as an administrator on the copy, open existing
+   modules (orders, inventory, dashboard) and Finance; Finance shows its empty state until
+   accounts are added. Do not run the Finance fixture or the destructive test suites against a
+   copy of production data.
+9. **Rollback rehearsal.** The migrations have no down scripts. Rehearse the real rollback:
+   restore the copy to the step-2 point (Neon "restore branch to a point in time"), confirm the
+   step-4 counts and migration list are back. For production, the rollback is the same
+   point-in-time restore plus redeploying the previous build.
+10. **Record and clean up.** Keep outputs from steps 3–9, the durations and the reviewer's
+    sign-off; the owner deletes the rehearsal branch.
+
+## Only after a successful rehearsal
+
+A separate, explicit approval for production: maintenance window, a backup branch taken
+immediately before, the same commands run by the owner (never from a developer checkout), the
+runtime role switched, and the post-checks repeated.
